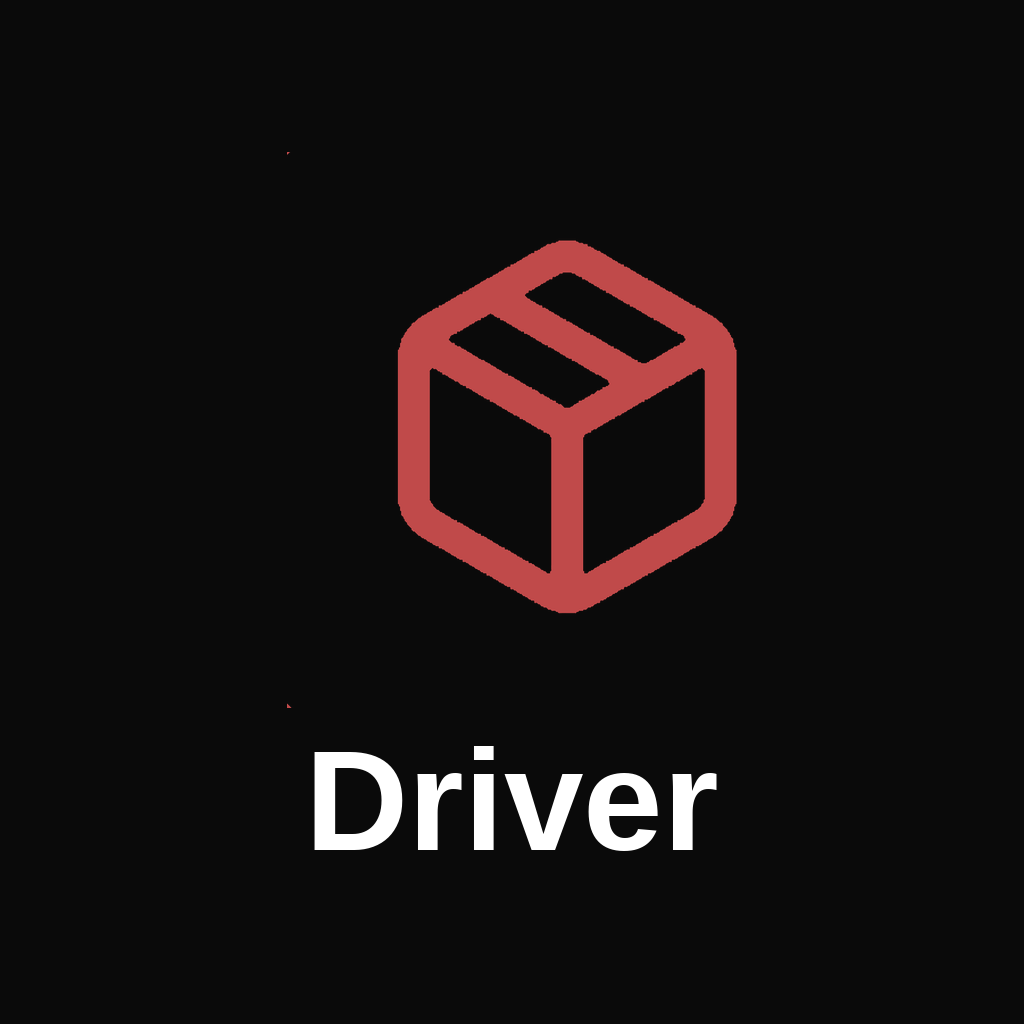
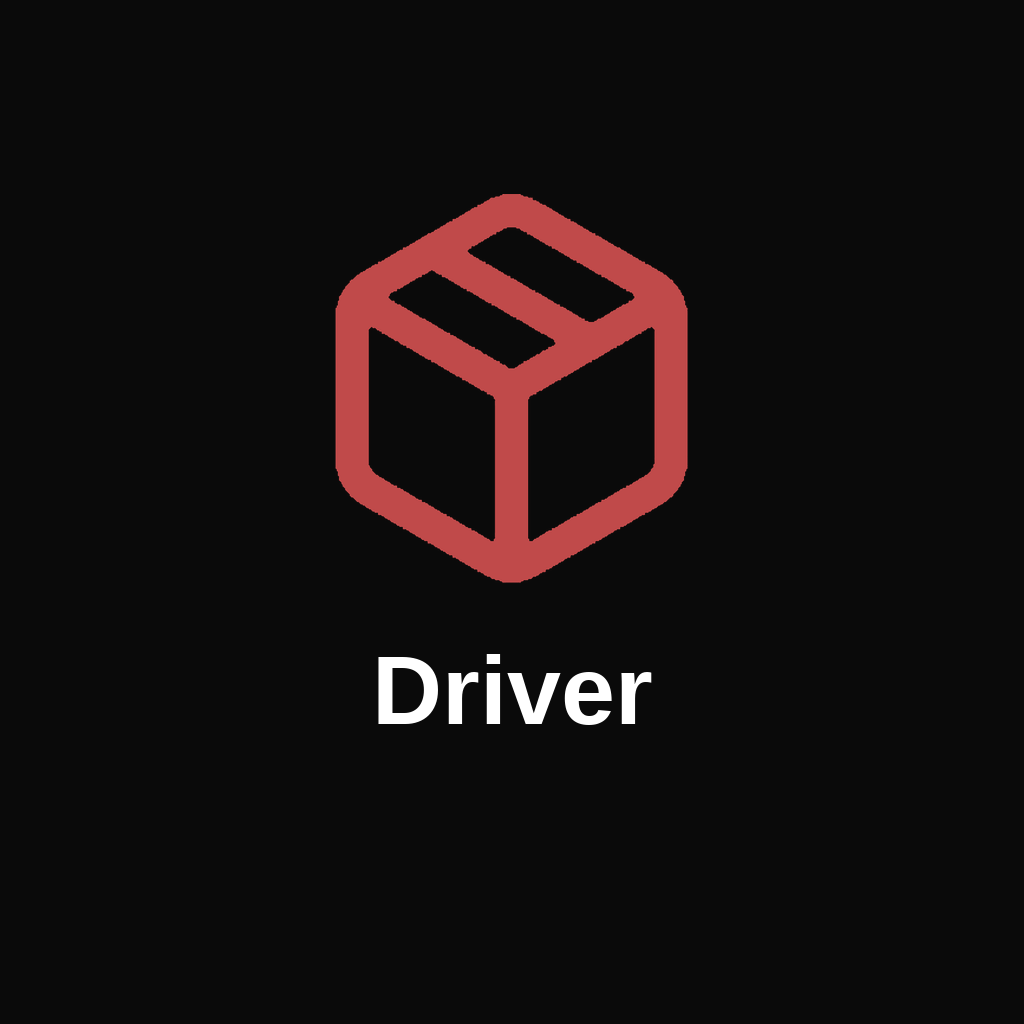
Corrected previews are ready. **Not committing yet** — awaiting your visual approval per your directive.
## Files modified on disk (uncommitted)
```
mobile/apps/customer/assets/icon.png            (46,000 bytes)
mobile/apps/customer/assets/adaptive-icon.png   (46,000 bytes)
mobile/apps/customer/assets/loading-mark.png    (46,000 bytes)
mobile/apps/customer/assets/splash-icon.png     (100,657 bytes)
mobile/apps/driver/assets/icon.png              (39,242 bytes)
mobile/apps/driver/assets/adaptive-icon.png     (39,242 bytes)
mobile/apps/driver/assets/loading-mark.png      (39,242 bytes)
mobile/apps/driver/assets/splash-icon.png       (32,081 bytes)
```
Plus two supporting files under `mobile/scripts/` (idempotent generator + immutable master snapshot). No source, config, deps, credentials, or Git tags touched. `customer-push-verified-2026-09-04` still at `338077b`.

## Composition adjustments made vs. previous run
| Aspect | Previous | Corrected |
|---|---|---|
| Text horizontal position | ~centered but visually off (leftward drift on Customer) | Centered on canvas x-axis, `x = (W − text_width) / 2 − bbox.left` (compensates for glyph left-side bearing) |
| Text size | 14% of canvas height (chunky) | 9.5% of canvas height (matches reference proportions) |
| Cube vertical position | 42% cy (floated in middle) | Top-of-cube at 19% cy — leaves room for text below |
| Text position | 78% cy (way at bottom) | 7% gap below cube (visually adjacent to cube) |
| Hairline (Customer) | Fixed via full-bleed bg | Still fixed |

## Visual verification (previews rendered above)
[…]

Changed region(s): [[0.3125, 0.1875, 0.7188, 0.625], [0.2812, 0.625, 0.7188, 0.8438]]

diff --git a/mobile/scripts/generate-icons.py b/mobile/scripts/generate-icons.py
@@ -1,0 +1,179 @@
+#!/usr/bin/env python3
+"""
+Icon + splash generator for CargoOne Customer and Driver.
+
+Reads the ORIGINAL box glyph from a stable snapshot in
+`mobile/scripts/icon-master.png` (a copy of the driver icon captured
+before any regeneration). Compositions match the reference screenshots
+supplied by the product owner:
+
+  Customer:  full-bleed terracotta #BA3A39, cream cube glyph,
+             "Customer" below in near-black.
+  Driver:    full-bleed black #0A0A0A, terracotta cube glyph,
+             "Driver" below in white.
+
+Text is horizontally centered on the CANVAS (not on the visible glyph
+bbox) and vertically placed such that (gap-above-text) ≈ (gap-below-
+text), reproducing the visual composition of the reference tiles.
+
+Idempotent: subsequent runs re-read `icon-master.png`, never the
+generated outputs, so the box glyph cannot accumulate baked-in text.
+"""
+from PIL import Image, ImageDraw, ImageFont, ImageChops
+import os, sys
+
+ROOT = os.path.join(os.path.dirname(__file__), "..")
+MASTER = os.path.join(os.path.dirname(__file__), "icon-master.png")
+FONT   = "/usr/share/fonts/truetype/liberation/LiberationSans-Bold.ttf"
+
+TERRACOTTA_BG = (186, 58, 57)
+SPLASH_RED    = (214, 40, 40)
+DRIVER_BLACK  = (10, 10, 10)
+CUSTOMER_TEXT = (30, 27, 24)
+CUSTOMER_BOX  = (250, 240, 230)
+DRIVER_TEXT   = (255, 255, 255)
+DRIVER_BOX    = (192, 74, 74)
+
+
+def load_master_rgba() -> Image.Image:
+    """Extract the box glyph from the master snapshot: any pixel whose
+    RGB deviates from solid (10,10,10) is glyph. Alpha is a smooth
+    ramp — 25/255 threshold suppresses PNG noise, then 10× ramp
+    preserves anti-aliased edges without introducing halos."""
+    im = Image.open(MASTER).convert("RGB")
+    W, H = im.size
+    solid = Image.new("RGB", (W, H), DRIVER_BLACK)
+    diff = ImageChops.difference(im, solid).convert("L")
+    lut = [0 if v < 25 else min(255, (v - 25) * 10) for v in range(256)]
+    alpha = diff.point(lut)
+    # Master PNG has stray anti-aliasing specks along the outer edges
+    # (visible as ~5 near-white pixels at x≈30 on rows 0 and 1023).
+    # Zero any alpha within the outer 8% border so only the centered
+    # box glyph survives. The real glyph bounding box lives well inside
+    # this safe zone (bbox ≈ 287,152 → 737,851 on 1024²).
+    margin = int(min(W, H) * 0.08)
+    from PIL import ImageDraw as _ID
+    mask = Image.new("L", (W, H), 0)
+    _ID.Draw(mask).rectangle((margin, margin, W - margin, H - margin), fill=255)
+    alpha = ImageChops.multiply(alpha, mask.point(lambda v: 255 if v else 0))
+    out = Image.new("RGBA", (W, H), (0, 0, 0, 0))
+    out.paste(im.convert("RGBA"), (0, 0), alpha)
+    return out
+
+
+def recolor(rgba: Image.Image, rgb: tuple) -> Image.Image:
+    r, g, b, a = rgba.split()
+    solid = Image.new("RGB", rgba.size, rgb)
+    rr, gg, bb = solid.split()
+    return Image.merge("RGBA", (rr, gg, bb, a))
+
+
+def tight_crop(rgba: Image.Image) -> Image.Image:
+    return rgba.crop(rgba.split()[-1].getbbox())
+
+
+def compose(bg, glyph_rgba, size, label, label_color,
+            glyph_h_frac, glyph_top_frac,
+            text_h_frac, gap_frac):
+    """
+    Composition strategy (matches reference tiles):
+      - Glyph is scaled so its VISIBLE height == glyph_h_frac * canvas_h.
+      - Glyph top edge sits at glyph_top_frac * canvas_h.
+      - Text baseline is placed `gap_frac * canvas_h` below the glyph's
+        bottom edge, then the text block is centered on canvas width.
+
+    Both glyph and text are horizontally centered on the canvas x-axis,
+    guaranteeing the cube+word appear as one centered composition.
+    """
+    W, H = size
+    canvas = Image.new("RGB", (W, H), bg)
+
+    # --- Glyph ---
+    g = tight_crop(glyph_rgba)
+    gw, gh = g.size
+    target_h = int(H * glyph_h_frac)
+    target_w = int(gw * target_h / gh)
+    g = g.resize((target_w, target_h), Image.LANCZOS)
+    gx = (W - target_w) // 2
+    gy = int(H * glyph_top_frac)
+    canvas.paste(g, (gx, gy), g)
+
+    # --- Text ---
+    font_size = int(H * text_h_frac)
+    font = ImageFont.truetype(FONT, font_size)
+    d = ImageDraw.Draw(canvas)
+    bb = d.textbbox((0, 0), label, font=font)
+    tw = bb[2] - bb[0]
+    th = bb[3] - bb[1]
+    tx = (W - tw) // 2 - bb[0]        # centered horizontally on canvas
+    ty = gy + target_h + int(H * gap_frac) - bb[1]
+    d.text((tx, ty), label, fill=label_color, font=font)
+    return canvas
+
+
+def main():
+    if not os.path.exists(MASTER):
+        print(f"FATAL: master snapshot missing at {MASTER}", file=sys.stderr)
+        sys.exit(1)
+
+    master = load_master_rgba()
+    print(f"master alpha bbox: {master.split()[-1].getbbox()}")
+
+    cust = recolor(master, CUSTOMER_BOX)
+    drv  = recolor(master, DRIVER_BOX)
+
+    # Reference composition (from screenshot 3):
+    #   Icon tile ≈ 480px; cube ≈ 180px tall @ y≈95; text ≈ 30px @ y≈325.
+    #   → glyph_h_frac ≈ 0.375,  glyph_top_frac ≈ 0.195,
+    #     text_h_frac  ≈ 0.075,  gap_frac       ≈ 0.075.
+    ICON = dict(size=(1024, 1024),
+                glyph_h_frac=0.38, glyph_top_frac=0.19,
+                text_h_frac=0.095, gap_frac=0.070)
+
+    # Splash: same aspect but glyph smaller relative to canvas
+    # (reference not supplied for splash; keeps existing centered feel).
+    SPLASH_C = dict(size=(2732, 2732),
+                    glyph_h_frac=0.24, glyph_top_frac=0.34,
+                    text_h_frac=0.055, gap_frac=0.045)
+    SPLASH_D = dict(size=(1024, 1024),
+                    glyph_h_frac=0.30, glyph_top_frac=0.28,
+                    text_h_frac=0.070, gap_frac=0.055)
+
+    outputs = [
+        (f"{ROOT}/apps/customer/assets/icon.png",
+         compose(TERRACOTTA_BG, cust, label="Customer",
+                 label_color=CUSTOMER_TEXT, **ICON)),
+        (f"{ROOT}/apps/customer/assets/adaptive-icon.png",
+         compose(TERRACOTTA_BG, cust, label="Customer",
+                 label_color=CUSTOMER_TEXT, **ICON)),
+        (f"{ROOT}/apps/customer/assets/loading-mark.png",
+         compose(TERRACOTTA_BG, cust, label="Customer",
+                 label_color=CUSTOMER_TEXT, **ICON)),
+        (f"{ROOT}/apps/customer/assets/splash-icon.png",
+         compose(SPLASH_RED, cust, label="Customer",
+                 label_color=CUSTOMER_BOX, **SPLASH_C)),
+
+        (f"{ROOT}/apps/driver/assets/icon.png",
+         compose(DRIVER_BLACK, drv, label="Driver",
+                 label_color=DRIVER_TEXT, **ICON)),
+        (f"{ROOT}/apps/driver/assets/adaptive-icon.png",
+         compose(DRIVER_BLACK, drv, label="Driver",
+                 label_color=DRIVER_TEXT, **ICON)),
+        (f"{ROOT}/apps/driver/assets/loading-mark.png",
+         compose(DRIVER_BLACK, drv, label="Driver",
+                 label_color=DRIVER_TEXT, **ICON)),
+        (f"{ROOT}/apps/driver/assets/splash-icon.png",
+         compose(DRIVER_BLACK, drv, label="Driver",
+                 label_color=DRIVER_TEXT, **SPLASH_D)),
+    ]
+    for path, img in outputs:
+        img.save(path, "PNG", optimize=True)
+        px = img.load()
+        W, H = img.size
+        corners = {px[0, 0], px[W-1, 0], px[0, H-1], px[W-1, H-1]}
+        assert len(corners) == 1, f"non-uniform bg in {path}: {corners}"
+        print(f"OK {os.path.relpath(path, ROOT)} {img.size} corner={corners.pop()}")
+
+
+if __name__ == "__main__":
+    main()
